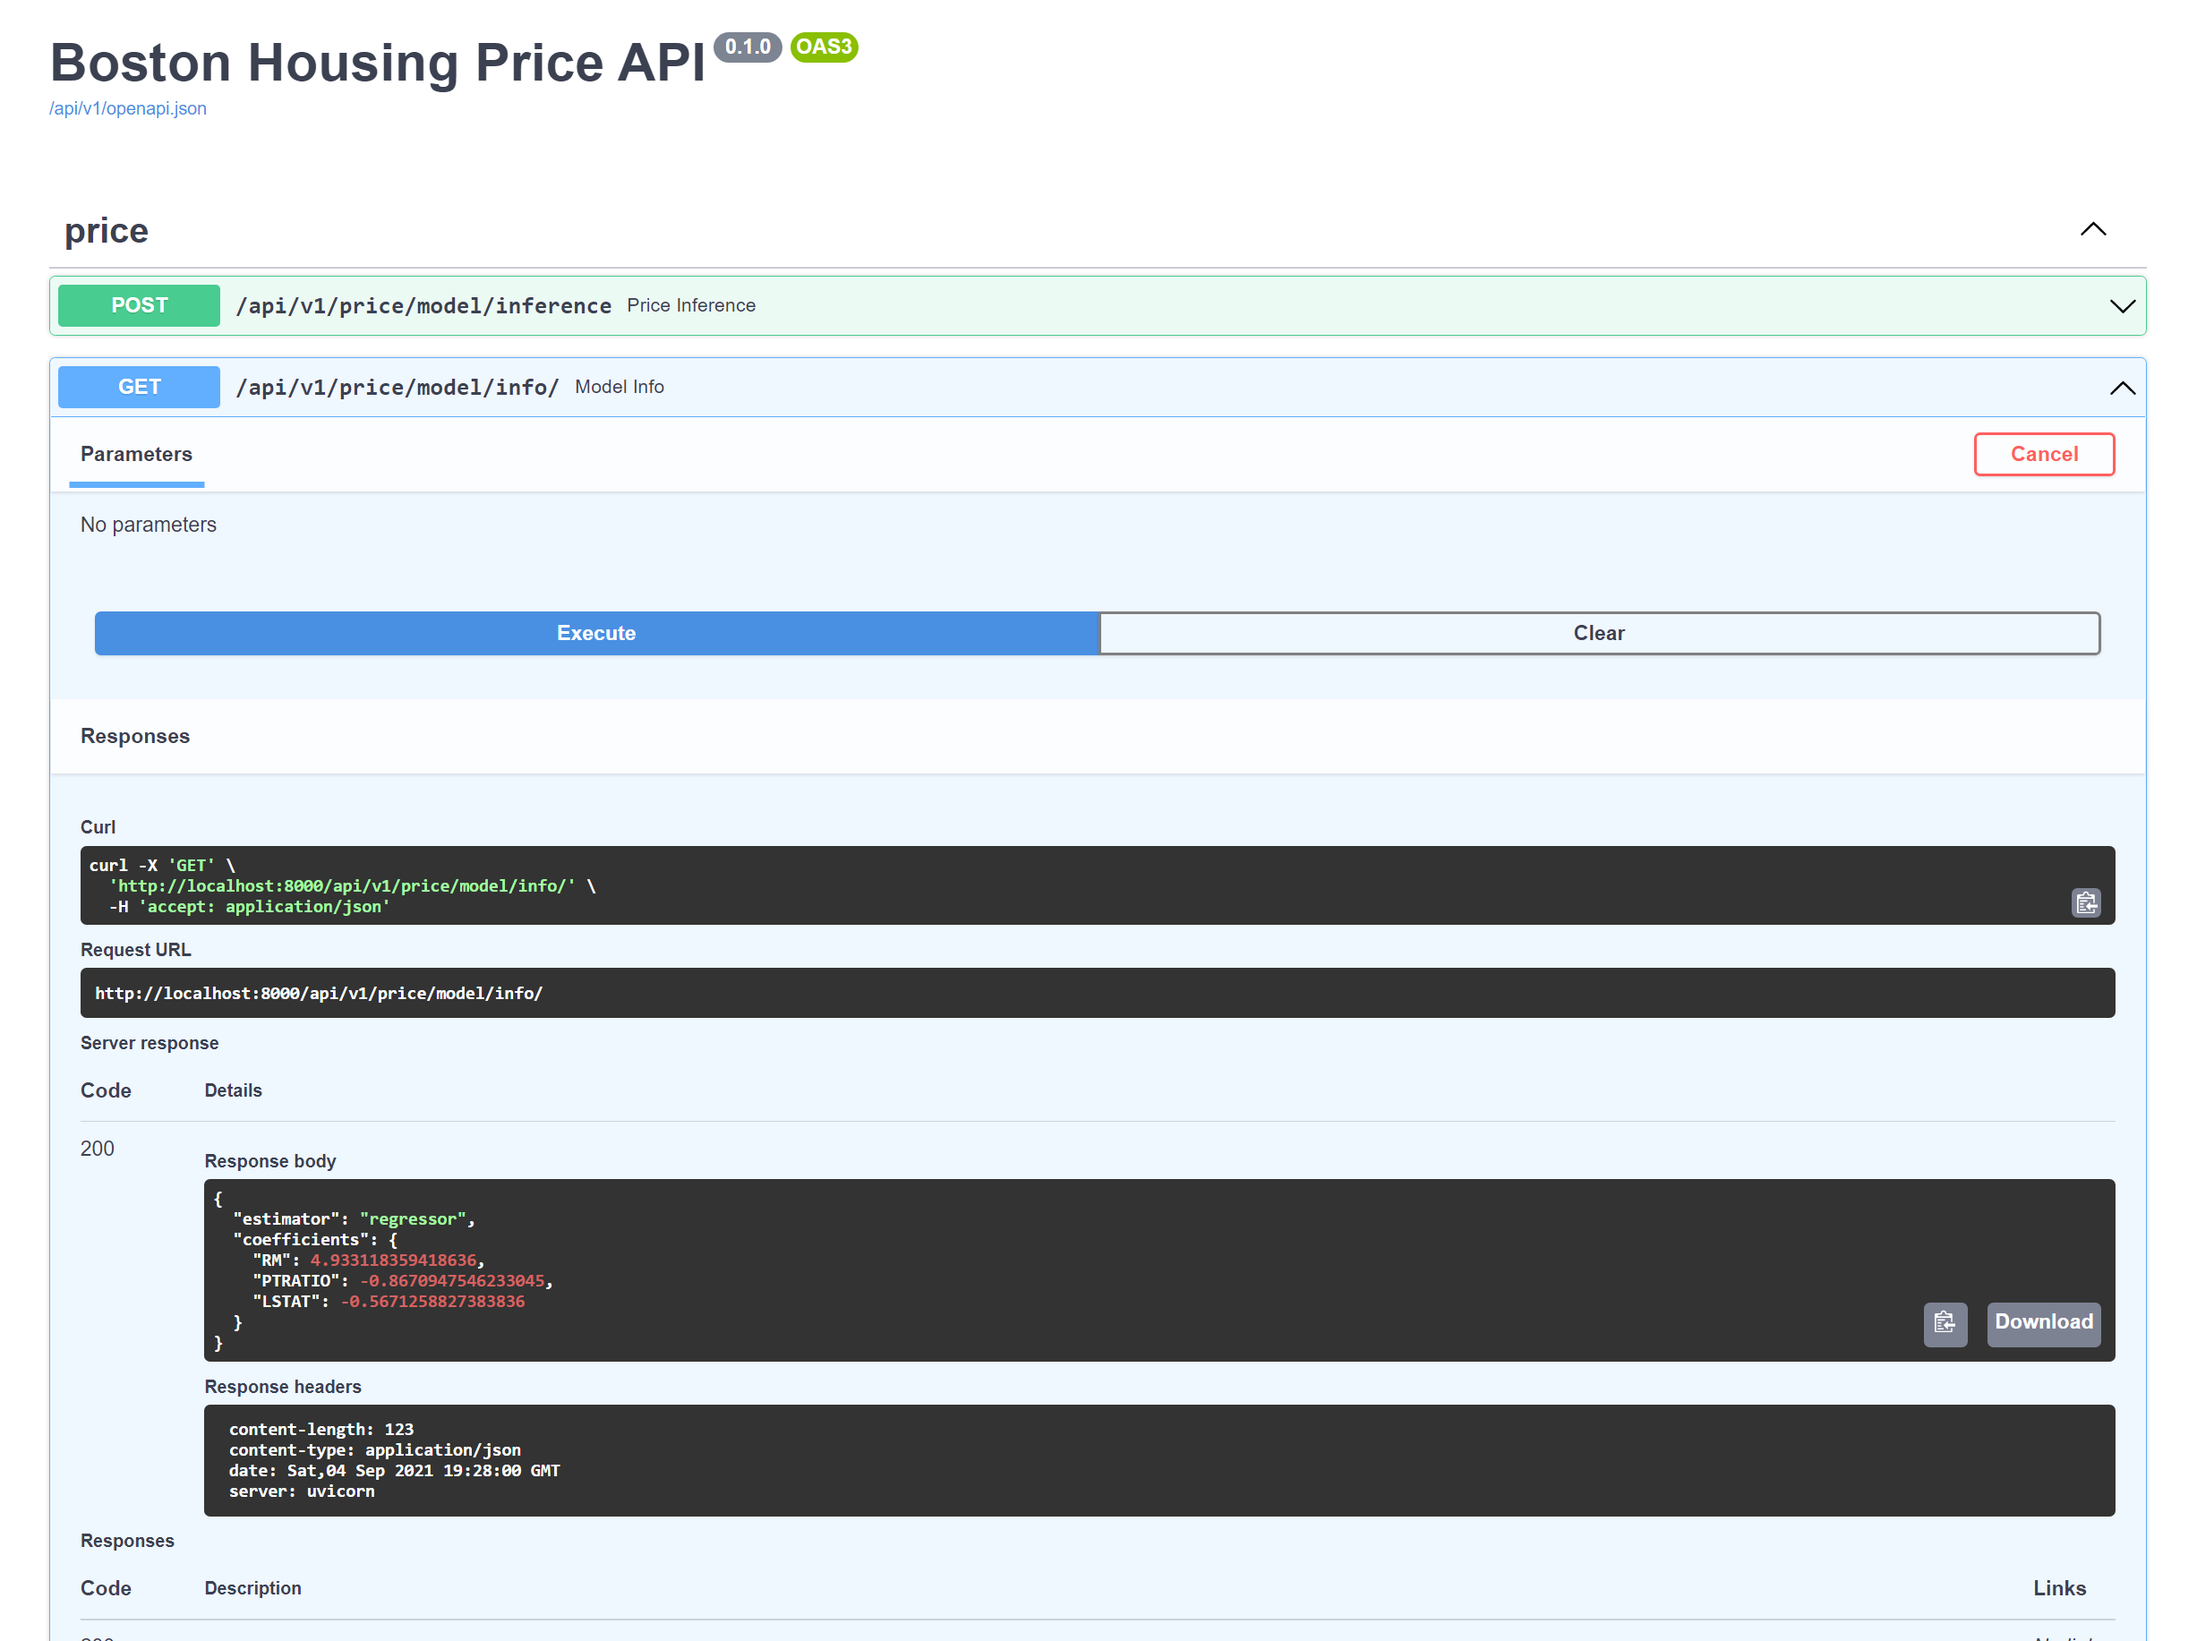
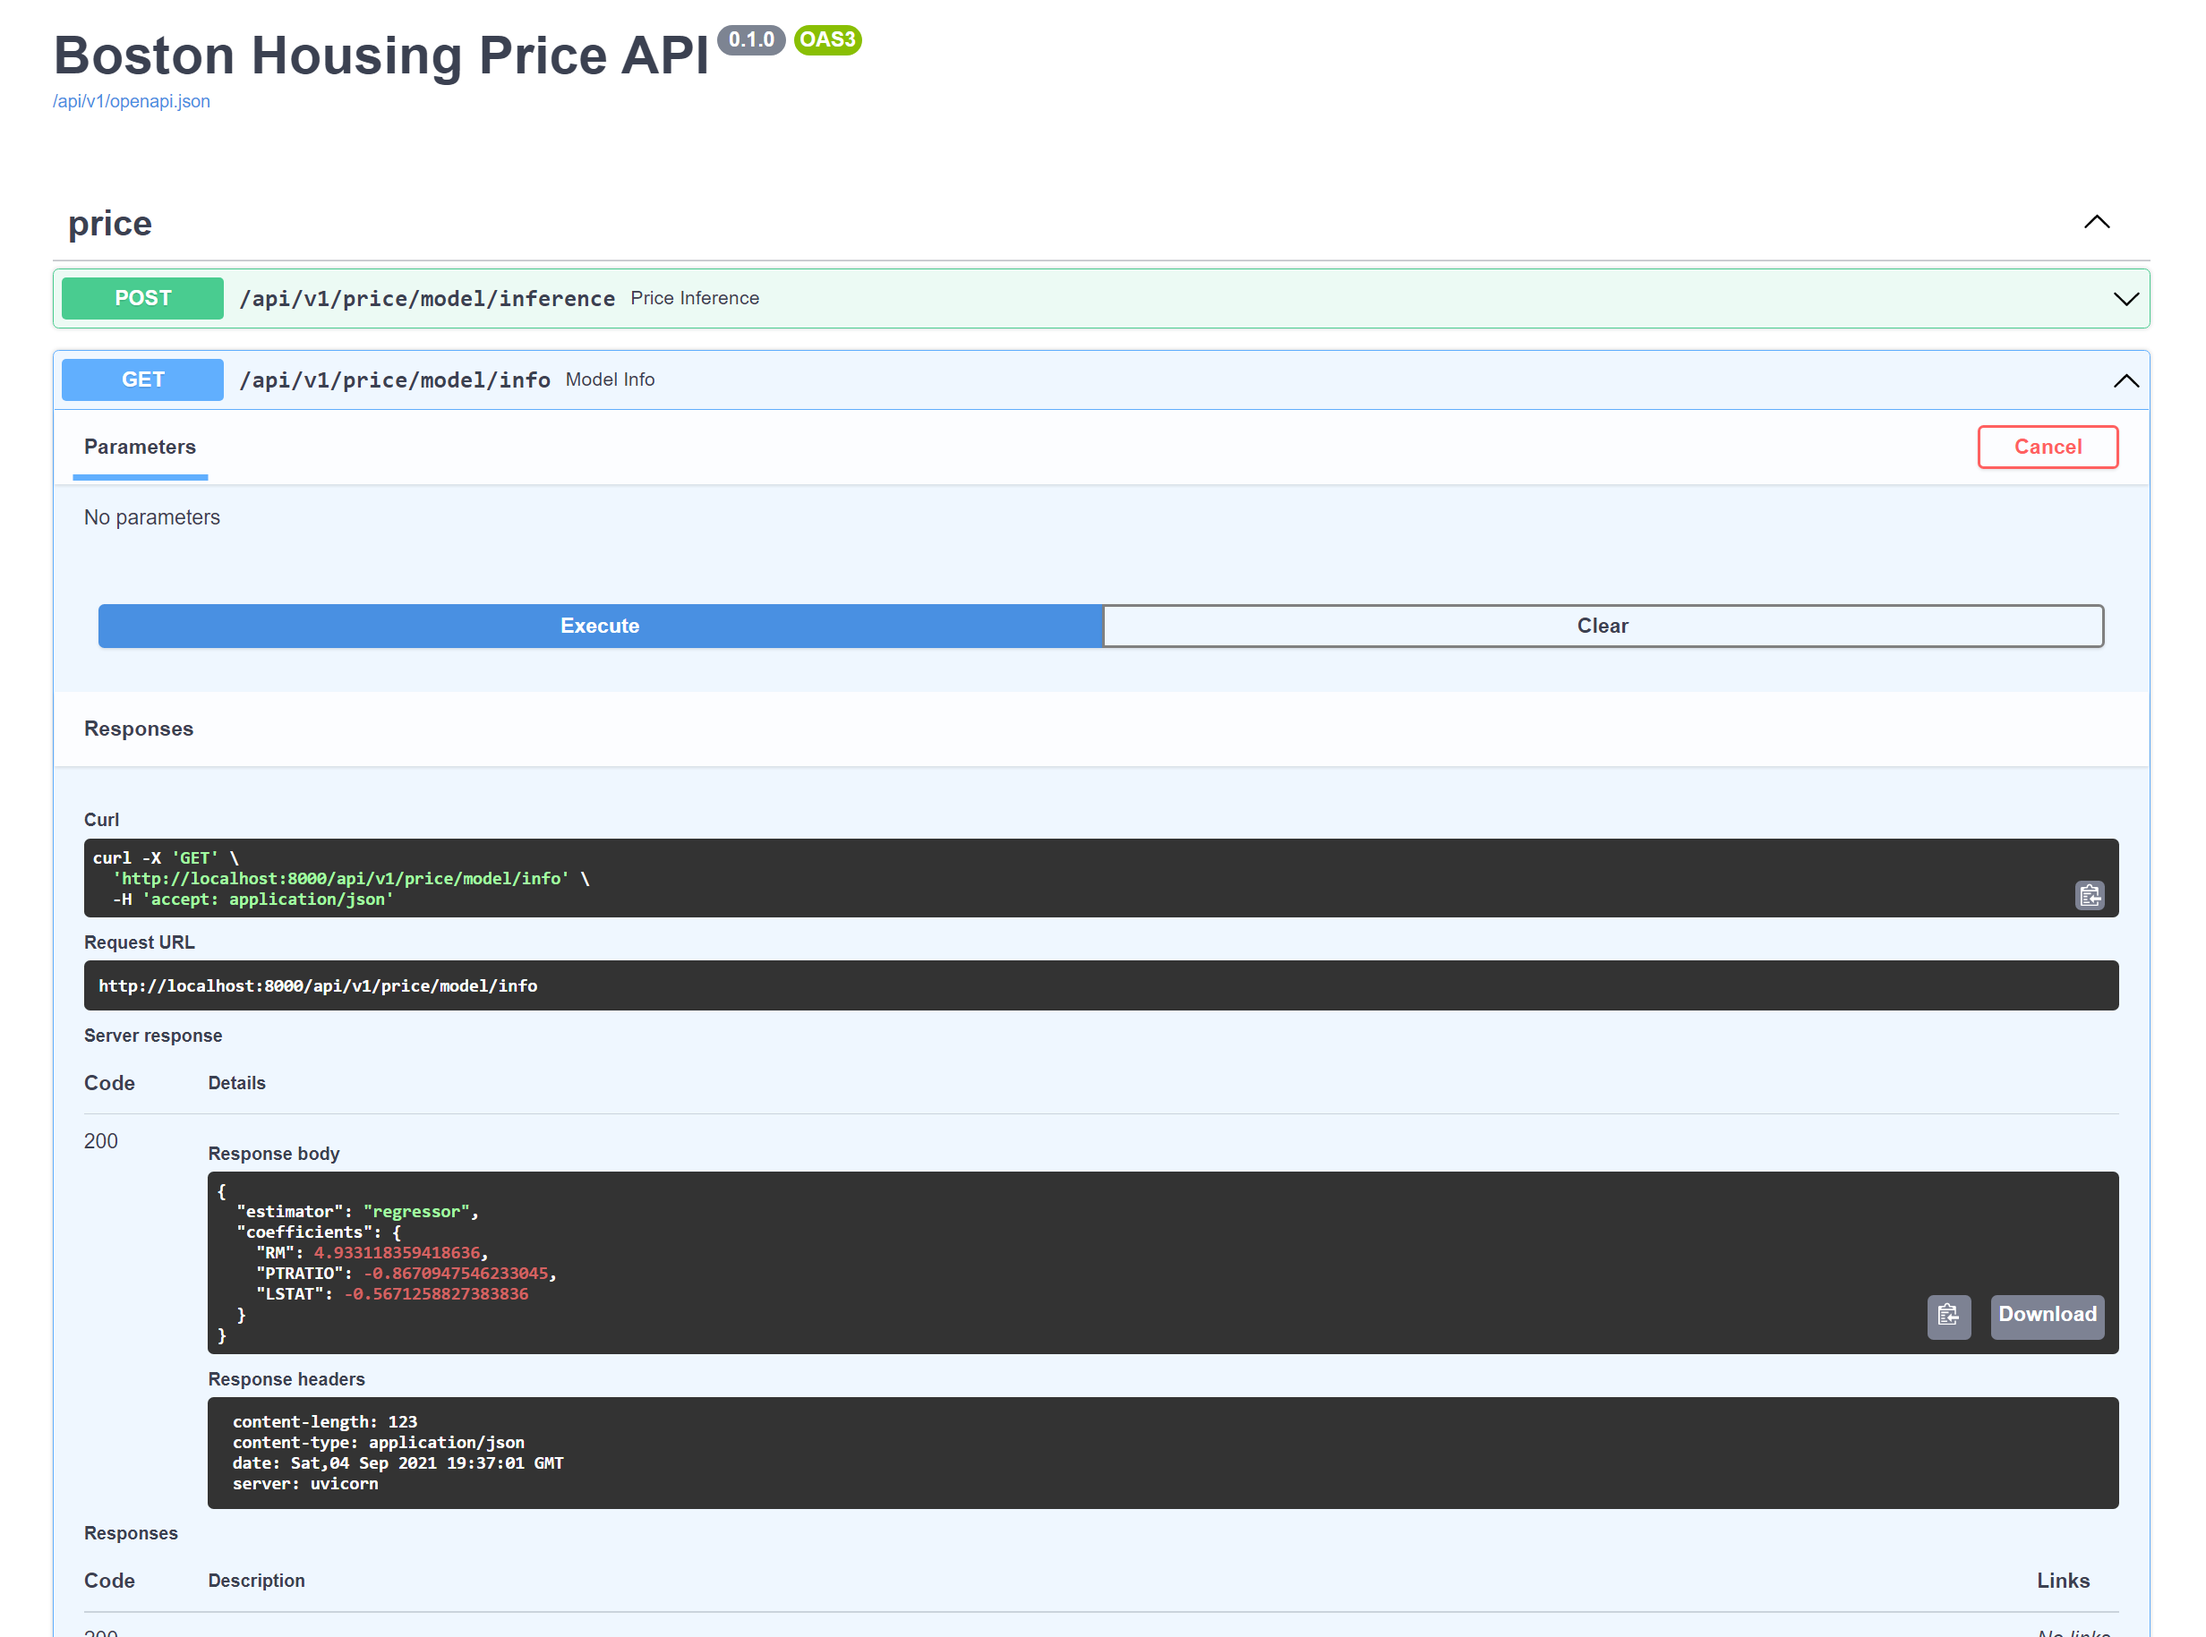
misc changes

diff --git a/app/api/v1/endpoints/price.py b/app/api/v1/endpoints/price.py
@@ -30,7 +30,7 @@ def price_inference(item: Item):
     return payload
 
 
-@router.get('/price/model/info/')
+@router.get('/price/model/info')
 def model_info():
     estimator_type = lm._estimator_type
     coefficients = dict(zip(feature_list,lm.coef_))
